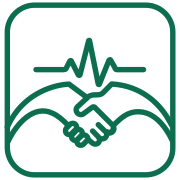
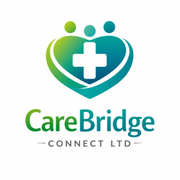
feat: update branding assets and layout components
- Replaced logo.svg with logo.jpeg for improved image quality.
- Added favicon-32.png to the metadata for better icon support.
- Refactored BrandMark component to accept height instead of size for more flexible rendering.
- Simplified RoleNav and BrandLogo components for cleaner structure and improved accessibility.

These changes enhance the visual consistency and performance of the application.

diff --git a/apps/web/src/components/site-nav-client.tsx b/apps/web/src/components/site-nav-client.tsx
@@ -14,31 +14,29 @@ const links = [
   { href: "/faq", label: "FAQ" },
 ];
 
-export function BrandMark({ size = 40 }: { size?: number }) {
+const LOGO_WIDTH = 1402;
+const LOGO_HEIGHT = 769;
+
+export function BrandMark({ height = 40 }: { height?: number }) {
+  const width = Math.round((height * LOGO_WIDTH) / LOGO_HEIGHT);
+
   return (
     <Image
-      src="/logo.svg"
+      src="/logo.jpeg"
       alt="CareBridge Connect"
-      width={size}
-      height={size}
+      width={width}
+      height={height}
       priority
-      className="shrink-0"
+      className="h-auto w-auto shrink-0"
+      style={{ height }}
     />
   );
 }
 
 function BrandLogo({ className = "" }: { className?: string }) {
   return (
-    <Link href="/" className={`flex items-center gap-3 ${className}`}>
-      <BrandMark />
-      <span className="leading-tight">
-        <span className="block text-[17px] font-bold tracking-tight text-[#0c6e4f]">
-          CareBridge
-        </span>
-        <span className="block text-[15px] font-semibold tracking-tight text-[#198038]">
-          Connect
-        </span>
-      </span>
+    <Link href="/" className={`flex items-center ${className}`}>
+      <BrandMark height={44} />
     </Link>
   );
 }

diff --git a/apps/web/src/components/role-nav.tsx b/apps/web/src/components/role-nav.tsx
@@ -81,12 +81,8 @@ export function RoleNav({ areaLabel, items, email }: RoleNavProps) {
           >
             <Icon icon={menuOpen ? Cancel01Icon : Menu01Icon} size={20} strokeWidth={2} />
           </button>
-          <Link href="/" className="flex items-center gap-3">
-            <BrandMark size={36} />
-            <span className="hidden leading-tight sm:block">
-              <span className="block text-[16px] font-bold tracking-tight text-[#0c6e4f]">CareBridge</span>
-              <span className="block text-[14px] font-semibold tracking-tight text-[#198038]">Connect</span>
-            </span>
+          <Link href="/" className="flex items-center">
+            <BrandMark height={36} />
           </Link>
           <span className="ml-1 hidden rounded-full bg-[#eef5f0] px-3 py-1 text-xs font-semibold text-[#0c6e4f] sm:inline-block">
             {areaLabel}

diff --git a/apps/web/src/app/layout.tsx b/apps/web/src/app/layout.tsx
@@ -14,8 +14,9 @@ export const metadata: Metadata = {
   description: siteTagline,
   icons: {
     icon: [
-      { url: "/logo.svg", type: "image/svg+xml" },
+      { url: "/logo.jpeg", type: "image/jpeg" },
       { url: "/favicon.ico", sizes: "any" },
+      { url: "/favicon-32.png", type: "image/png", sizes: "32x32" },
       { url: "/icon-192.png", type: "image/png", sizes: "192x192" },
       { url: "/icon-512.png", type: "image/png", sizes: "512x512" },
     ],